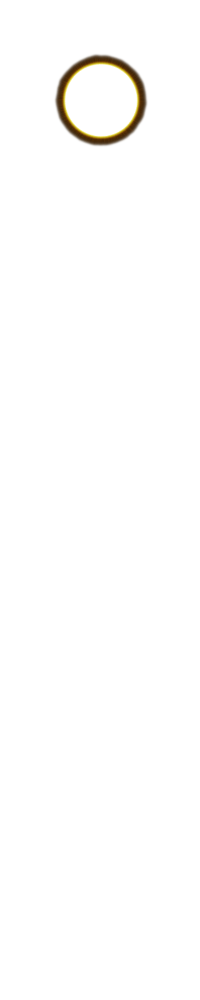
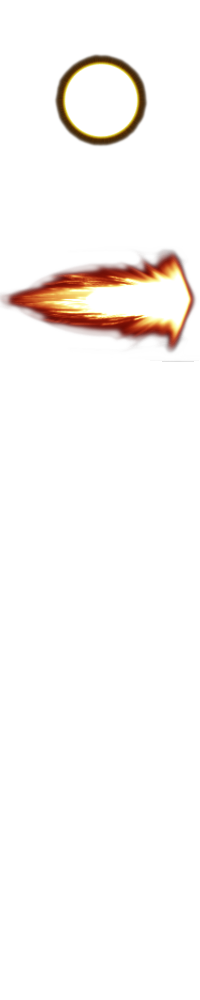
Added Eagle Rush attack

Changed region(s): [[0.0, 0.248, 0.99, 0.372]]

diff --git a/components/OkuuController.js b/components/OkuuController.js
@@ -1,6 +1,8 @@
 class OkuuController extends BossController {
     constructor(boss, game) {
         super(boss, game, 40);
+        this.timer = 0.5;
+        this.gravity = 1500;
     };
     setBossTime() {
         this.game.okuuTime = Math.round((this.game.timer.gameTime - this.game.tenshiTime) * 100) / 100;
@@ -20,20 +22,42 @@ class OkuuController extends BossController {
         }
         this.shotTimer -= this.game.clockTick;
     }
+    sideCollisions(){
+        if (this.boss.state > 2 && this.boss.state < 16 || this.boss.state > 17) {
+            let offset = this.boss.BB.x - this.boss.x
+            if (this.boss.BB.x <= 0) { //LEFT COLLISION
+                this.boss.x = 0 - offset;
+            }
+            if (this.boss.BB.right >= 1280) { //RIGHT COLLISION
+                this.boss.x = 1280 - offset - this.boss.BB.width;
+            }
+        }
+    }
     behavior() {
         if (this.timer <= 0 && this.attackDuration <= 0 && this.boss.state == 0) { //ATTACKS FROM IDLE
             this.facePlayer();
 
+            
             // let roll = this.rollForAttack(2);
             // switch(roll) {
-            //     case(0): { this.attack(4); break; }
-            //     case(1): { this.attack(9); break; }
+            //     case(0): {this.attack(4); break; }
+            //     case(1): {this.attack(9); break; }
+            //     case(2): {this.attack(14); break; }
             // }
 
 
         }
         if (this.attackDuration > 0 || this.timer > 0) { //DURING STATE
             switch(this.boss.state) {
+                case(1):
+                case(2): {
+                    if (this.yVelocity >= 0 && this.boss.y == 700 - this.boss.yBoxOffset) {
+                        this.attackDuration = 0;
+                        this.xVelocity = 0;
+                        ASSET_MANAGER.playSound("Thud");
+                    }
+                    break;
+                }
                 case(6): {
                     let animationTime = this.boss.animations[0][6].totalTime;
                     if (this.attackDuration < (2/7) * animationTime) this.firePillars();
@@ -57,10 +81,36 @@ class OkuuController extends BossController {
                     this.shotTimer -= this.game.clockTick;
                     break;
                 }
+                case(16):
+                case(17): {
+                    this.boss.x -= (-1 + this.boss.facing * 2) * 2000 * this.game.clockTick; 
+                    if (this.shotTimer <= 0 && this.shotCount < 2) {
+                        ASSET_MANAGER.playSound("Fly");
+                        this.facePlayer();
+                        let midPtOffset = this.boss.BB.midY - this.boss.y;
+                        this.boss.y = this.game.player.BB.midY - midPtOffset;
+
+                        let offset = this.boss.BB.x - this.boss.x;
+                        if (this.boss.facing == 0) this.boss.x = 0 - offset;
+                        else this.boss.x = 1280 - offset - this.boss.BB.width;
+
+                        this.shotCount++;
+                        this.shotTimer = 1;
+                    }
+                    this.shotTimer -= this.game.clockTick;
+
+                    if (this.shotCount > 2 && this.shotTimer <= -0.75) this.attackDuration = 0;
+                    break;
+                }
             }
         }
         if (this.attackDuration <= 0 && this.boss.state > 0) { //AFTER STATE
             switch(this.boss.state) {
+                case(1): {
+                    this.attackDuration = 3;
+                    this.boss.state = 2;
+                    break;
+                }
                 case(4): {
                     this.attackDuration = 0.1;
                     this.boss.state = 5;
@@ -95,6 +145,39 @@ class OkuuController extends BossController {
                 }
                 case(12): {
                     this.attack(13);
+                    break;
+                }
+                case(14): {
+                    this.attackDuration = 0.5;
+                    this.boss.state = 15;
+                    break;
+                }
+                case(15): {
+                    this.attack(16);
+                    ASSET_MANAGER.playSound("Fly");
+                    this.shotTimer = 1;
+                    break;
+                }
+                case(16): {
+                    this.attackDuration = 3;
+                    this.boss.state = 17;
+                    this.antiGrav = true;
+                    break;
+                }
+                case(17): {
+                    this.antiGrav = false;
+                    this.boss.y = 0;
+                    this.facePlayer();
+                    let offset = this.boss.BB.x - this.boss.x
+                    if (this.boss.BB.x <= 0) { //LEFT COLLISION
+                        this.boss.x = 0 - offset;
+                        this.xVelocity = 300;
+                    }
+                    if (this.boss.BB.right >= 1280) { //RIGHT COLLISION
+                        this.boss.x = 1280 - offset - this.boss.BB.width;
+                        this.xVelocity = -300;
+                    }
+                    this.attack(1);
                     break;
                 }
                 default: {

diff --git a/components/BossController.js b/components/BossController.js
@@ -10,6 +10,7 @@ class BossController {
         this.lastLastRoll = null;
         this.yVelocity = 0;
         this.xVelocity = 0;
+        this.gravity = 2000;
         this.shotTimer = 0;
         this.shotCount = 0;
         this.facePlayer();
@@ -64,12 +65,11 @@ class BossController {
         }
     };
     sideCollisions(){
+        let offset = this.boss.BB.x - this.boss.x
         if (this.boss.BB.x <= 0) { //LEFT COLLISION
-            let offset = this.boss.BB.x - this.boss.x
             this.boss.x = 0 - offset;
         }
         if (this.boss.BB.right >= 1280) { //RIGHT COLLISION
-            let offset = this.boss.BB.x - this.boss.x
             this.boss.x = 1280 - offset - this.boss.BB.width;
         }
     }
@@ -78,7 +78,7 @@ class BossController {
         if (this.timer > 0) this.timer -= this.game.clockTick;
         if (this.attackDuration > 0) this.attackDuration -= this.game.clockTick;
 
-        if (!this.antiGrav) this.yVelocity += 2000 * this.game.clockTick; //Gravity
+        if (!this.antiGrav) this.yVelocity += this.gravity * this.game.clockTick; //Gravity
 
         this.boss.y += this.yVelocity * this.game.clockTick; 
         this.boss.x += this.xVelocity * this.game.clockTick;

diff --git a/Entities/Okuu.js b/Entities/Okuu.js
@@ -11,7 +11,9 @@ class Okuu extends Character {
     loadAnimations() {
         //IDLE
         this.makeAnimation(0, 0, 1, 23, 12);
-
+        //FALLING
+        this.makeAnimation(1, 1, 0, 6, 15);
+        this.makeAnimation(2, 1, 5, 1, 1);
         //SLAM
         this.makeAnimation(4, 2, 0, 3, 15);
         this.makeAnimation(5, 2, 1, 2, 10);
@@ -24,6 +26,11 @@ class Okuu extends Character {
         this.makeAnimation(11, 3, 5, 4, 15);
         this.makeAnimation(12, 3, 8, 2, 10);
         this.makeAnimation(13, 3, 9, 4, 10);
+        //RUSH
+        this.makeAnimation(14, 4, 0, 3, 15);
+        this.makeAnimation(15, 4, 2, 1, 1);
+        this.makeAnimation(16, 4, 3, 5, 12);
+        this.makeAnimation(17, 4, 4, 4, 12);
 
         //KNOCKBACK
         this.makeAnimation(40, 8, 0, 8, 15);

diff --git a/components/TenshiController.js b/components/TenshiController.js
@@ -59,7 +59,7 @@ class TenshiController extends BossController {
         if (this.attackDuration > 0 || this.timer > 0) { //DURING STATE
             switch(this.boss.state) {
                 case(1, 2): {
-                    if (this.yVelocity == 0) {
+                    if (this.yVelocity >= 0 && this.boss.y == 700 - this.boss.yBoxOffset) {
                         this.attackDuration = 0;
                         this.xVelocity = 0;
                     }
